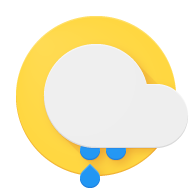
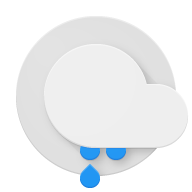
Change color on weather and refactor sass
*Inline background color conditional in Home.js
*Refactored scss code

Changed region(s): [[0.0625, 0.0625, 0.9375, 0.9375]]

diff --git a/src/Home/Home.js b/src/Home/Home.js
@@ -3,12 +3,12 @@ import PropTypes from 'prop-types';
 import Clock from 'react-live-clock';
 import moment from 'moment';
 import {
-  FlexibleXYPlot,
-  XAxis,
-  YAxis,
-  VerticalGridLines,
-  HorizontalGridLines,
-  LineMarkSeries,
+	FlexibleXYPlot,
+	XAxis,
+	YAxis,
+	VerticalGridLines,
+	HorizontalGridLines,
+	LineMarkSeries,
 } from 'react-vis';
 import './Home.css';
 import wind from '../images/wind.png';
@@ -17,88 +17,95 @@ import rain from '../images/rain.png';
 
 class Home extends React.Component {
 
-  render() {
+	render() {
 
-    // changes image depending on
-    let weather_image = clouds;
-    if (this.props.wetness < 600) {
-      weather_image = rain;
-    } else if (this.props.wind_speed >= 8){
-      weather_image = wind;
-    }
+		// styling dependent on certain weather
+		let style = {
+			backgroundColor: '#2194f3'
+		};
 
-    return (
-      <div className="Home">
-        <div className='banner'>
-          <p id='title' className='banner_header'>Arduino Pi Weather Station</p>
-          <div id='weather_img_container'>
-            <img src={weather_image} alt='weather' />
-          </div>
-          <div id='location_time' className='banner_header'>
-            <p>Ann Arbor, Michigan</p>
-            <Clock format={'h:mm'} ticking timezone={'US/Eastern'} />
-          </div>
-        </div>
-        <div className='content'>
-          <div id='weather_box' className='card'>
-            <header>
-              <p>{this.props.temperature}&deg;F</p>
-              <p>{moment().format('dddd')}</p>
-              <p>{moment().format('MMMM D, YYYY')}</p>
-            </header>
-            <p>Humidity: {this.props.humidity}%         </p>
-            <p>Pressure: {this.props.pressure} Hg       </p>
-            <p>Wind Speed: {this.props.wind_speed} m/s  </p>
-          </div>
-          <div id='detail_box' className='card'>
-            <FlexibleXYPlot
-              height={300}>
-              <VerticalGridLines />
-              <HorizontalGridLines />
-              <XAxis title='x-axis' />
-              <YAxis title='y-axis' />
-              <LineMarkSeries
-                className="linemark-series-example"
-                style={{
-                  stroke: 'white'
-                }}
-                data={[
-                  { x: 1, y: 10 },
-                  { x: 2, y: 5 },
-                  { x: 3, y: 15 }
-                ]} />
-              <LineMarkSeries
-                className="linemark-series-example-2"
-                curve={'curveMonotoneX'}
-                data={[
-                  { x: 1, y: 11 },
-                  { x: 1.5, y: 29 },
-                  { x: 3, y: 7 }
-                ]} />
-            </FlexibleXYPlot>
-          </div>
-        </div>
-      </div>
-    );
-  }
+		// changes image depending on weather
+		let weather_image = clouds;
+		if (this.props.wetness < 600) {
+			style.backgroundColor = '#4CAF50';
+			weather_image = rain;
+		} else if (this.props.wind_speed >= 8){
+			style.backgroundColor = '#FFC107';
+			weather_image = wind;
+		}
+
+		return (
+			<div className="Home">
+				<div className='banner' style={style}>
+					<p id='title' className='banner_header'>Arduino Pi Weather Station</p>
+					<div id='weather_img_container'>
+						<img src={weather_image} alt='weather' />
+					</div>
+					<div id='location_time' className='banner_header'>
+						<p>Ann Arbor, Michigan</p>
+						<Clock format={'h:mm'} ticking timezone={'US/Eastern'} />
+					</div>
+				</div>
+				<div className='content'>
+					<div id='weather_box' className='card'>
+						<header>
+							<p>{this.props.temperature}&deg;F</p>
+							<p>{moment().format('dddd')}</p>
+							<p>{moment().format('MMMM D, YYYY')}</p>
+						</header>
+						<p>Humidity: {this.props.humidity}%         </p>
+						<p>Pressure: {this.props.pressure} Hg       </p>
+						<p>Wind Speed: {this.props.wind_speed} m/s  </p>
+					</div>
+					<div id='detail_box' className='card'>
+						<FlexibleXYPlot
+							height={300}>
+							<VerticalGridLines />
+							<HorizontalGridLines />
+							<XAxis title='x-axis' />
+							<YAxis title='y-axis' />
+							<LineMarkSeries
+								className="linemark-series-example"
+								style={{
+									stroke: 'white'
+								}}
+								data={[
+									{ x: 1, y: 10 },
+									{ x: 2, y: 5 },
+									{ x: 3, y: 15 }
+								]} />
+							<LineMarkSeries
+								className="linemark-series-example-2"
+								curve={'curveMonotoneX'}
+								data={[
+									{ x: 1, y: 11 },
+									{ x: 1.5, y: 29 },
+									{ x: 3, y: 7 }
+								]} />
+						</FlexibleXYPlot>
+					</div>
+				</div>
+			</div>
+		);
+	}
 }
 
 Home.propTypes = {
-  image: PropTypes.string.isRequired,
-  temperature: PropTypes.number.isRequired,
-  humidity: PropTypes.number.isRequired,
-  pressure: PropTypes.number.isRequired,
-  wind_speed: PropTypes.number.isRequired,
-  wetness: PropTypes.number.isRequired
+	image: PropTypes.string.isRequired,
+	temperature: PropTypes.number.isRequired,
+	humidity: PropTypes.number.isRequired,
+	pressure: PropTypes.number.isRequired,
+	wind_speed: PropTypes.number.isRequired,
+	wetness: PropTypes.number.isRequired
 };
 
 Home.defaultProps = {
-  image: '../images/weather-rain-day.png',
-  temperature: 33,
-  humidity: 90,
-  pressure: 42.23,
-  wind_speed: 2.3,
-  wetness: 1024
+	image: '../images/weather-rain-day.png',
+	temperature: 33,
+	humidity: 90,
+	pressure: 42.23,
+	wind_speed: 2.3,
+	wetness: 1024
 };
 
 export default Home;

diff --git a/src/App.js b/src/App.js
@@ -8,57 +8,57 @@ import FaAlignRight from 'react-icons/lib/fa/align-right';
 
 class App extends Component {
 
-  state = {
-    'weather_now': {
-      'temperature': 56,
-      'humidity': 80,
-      'pressure': 20.76,
-      'wind_speed': 6,
-      'wetness': 1024,
-    }
-  };
+	state = {
+		'weather_now': {
+			'temperature': 56,
+			'humidity': 80,
+			'pressure': 20.76,
+			'wind_speed': 8,
+			'wetness': 1024,
+		}
+	};
 
-  toggleResponsiveMenu = () => {
-    let x = document.getElementById('topnav');
-    x.className = x.className === '' ? 'responsive' : '';
-  }
+	toggleResponsiveMenu = () => {
+		let x = document.getElementById('topnav');
+		x.className = x.className === '' ? 'responsive' : '';
+	}
 
-  render() {
-    return (
-      <Router>
-        <div className='App'>
-          <nav id='topnav'>
-            <a
-              href='https://gitlab.eecs.umich.edu/rubinz/arduino_pi_weather_station'
-              target='_blank'
-              rel='noopener noreferrer'>
-              <img
-                src={git_lab_logo}
-                alt='git lab icon' />
-            </a>
-            <Link to='/home'>Home</Link>
-            <Link to='/detail'>Detail</Link>
-            <Link to='/about'>About</Link>
-            <FaAlignRight onClick={this.toggleResponsiveMenu} />
-          </nav>
-          <div className="page-content">
-            <Route
-              path='/home'
-              render={
-                () => <Home
-                  temperature={this.state.weather_now.temperature}
-                  humidity={this.state.weather_now.humidity}
-                  pressure={this.state.weather_now.pressure}
-                  wind_speed={this.state.weather_now.wind_speed}
-                  wetness={this.state.weather_now.wetness} />
-              }
-            />
-            <Redirect from='/' to='/home' />
-          </div>
-        </div>
-      </Router>
-    );
-  }
+	render() {
+		return (
+			<Router>
+				<div className='App'>
+					<nav id='topnav'>
+						<a
+							href='https://gitlab.eecs.umich.edu/rubinz/arduino_pi_weather_station'
+							target='_blank'
+							rel='noopener noreferrer'>
+							<img
+								src={git_lab_logo}
+								alt='git lab icon' />
+						</a>
+						<Link to='/home'>Home</Link>
+						<Link to='/detail'>Detail</Link>
+						<Link to='/about'>About</Link>
+						<FaAlignRight onClick={this.toggleResponsiveMenu} />
+					</nav>
+					<div className="page-content">
+						<Route
+							path='/home'
+							render={
+								() => <Home
+									temperature={this.state.weather_now.temperature}
+									humidity={this.state.weather_now.humidity}
+									pressure={this.state.weather_now.pressure}
+									wind_speed={this.state.weather_now.wind_speed}
+									wetness={this.state.weather_now.wetness} />
+							}
+						/>
+						<Redirect from='/' to='/home' />
+					</div>
+				</div>
+			</Router>
+		);
+	}
 }
 
 export default App;

diff --git a/src/App.scss b/src/App.scss
@@ -1,7 +1,7 @@
 @import "sass_util/variables";
 @import 'sass_util/base';
 
-nav {
+#topnav {
   p, a, svg {
     display: inline;
     font-size: 1.5em;
@@ -27,24 +27,33 @@ nav {
   background-color: $side-container-color;
 }
 
+// on narrower screens removes nav links and displays bars
+// for mobile nav menu
 @media screen and (max-width: 600px) {
-  nav a:not(:first-child), nav p {display: none;}
-  nav svg {
-    float: right;
-    display: block;
+  #topnav {
+    a:not(:first-child), p {
+    display: none;
+    }
+    svg {
+      float: right;
+      display: block;
+    }
   }
 }
 
+// creates mobile navigation screen on bar click
 @media screen and (max-width: 600px) {
-  nav.responsive {position: relative;}
-  nav.responsive svg {
-    position: absolute;
-    right: 0;
-    top: 0;
-  }
-  nav.responsive a {
-    float: none;
-    display: block;
-    text-align: left;
+  #topnav.responsive {
+    svg {
+      position: absolute;
+      right: 0;
+      top: 0.25em;
+    }
+    a {
+      float: none;
+      display: block;
+      text-align: left;
+    }
+    position: relative;
   }
 }

diff --git a/src/Home/Home.scss b/src/Home/Home.scss
@@ -30,7 +30,7 @@
   background-color: $primary-color;
   font-size: 1.2em;
   display: grid;
-  // for mobile views stack views
+  // for mobile, stack views
   grid-template-areas: 
     "title"
     "weather_img_container"

diff --git a/.eslintrc.js b/.eslintrc.js
@@ -34,6 +34,10 @@ module.exports = {
         "semi": [
             "error",
             "always"
+        ],
+        "indent": [
+            "error",
+            "tab"
         ]
     }
 };

diff --git a/src/sass_util/_variables.scss b/src/sass_util/_variables.scss
@@ -2,7 +2,6 @@
 @import "~react-vis/dist/style.css";
 
 // Colors
-$primary-color: #2194f3;
 $secondary-color: #f37f21;
 $side-container-color: #3c3c3c;
 $primary-text-color: #212121;
